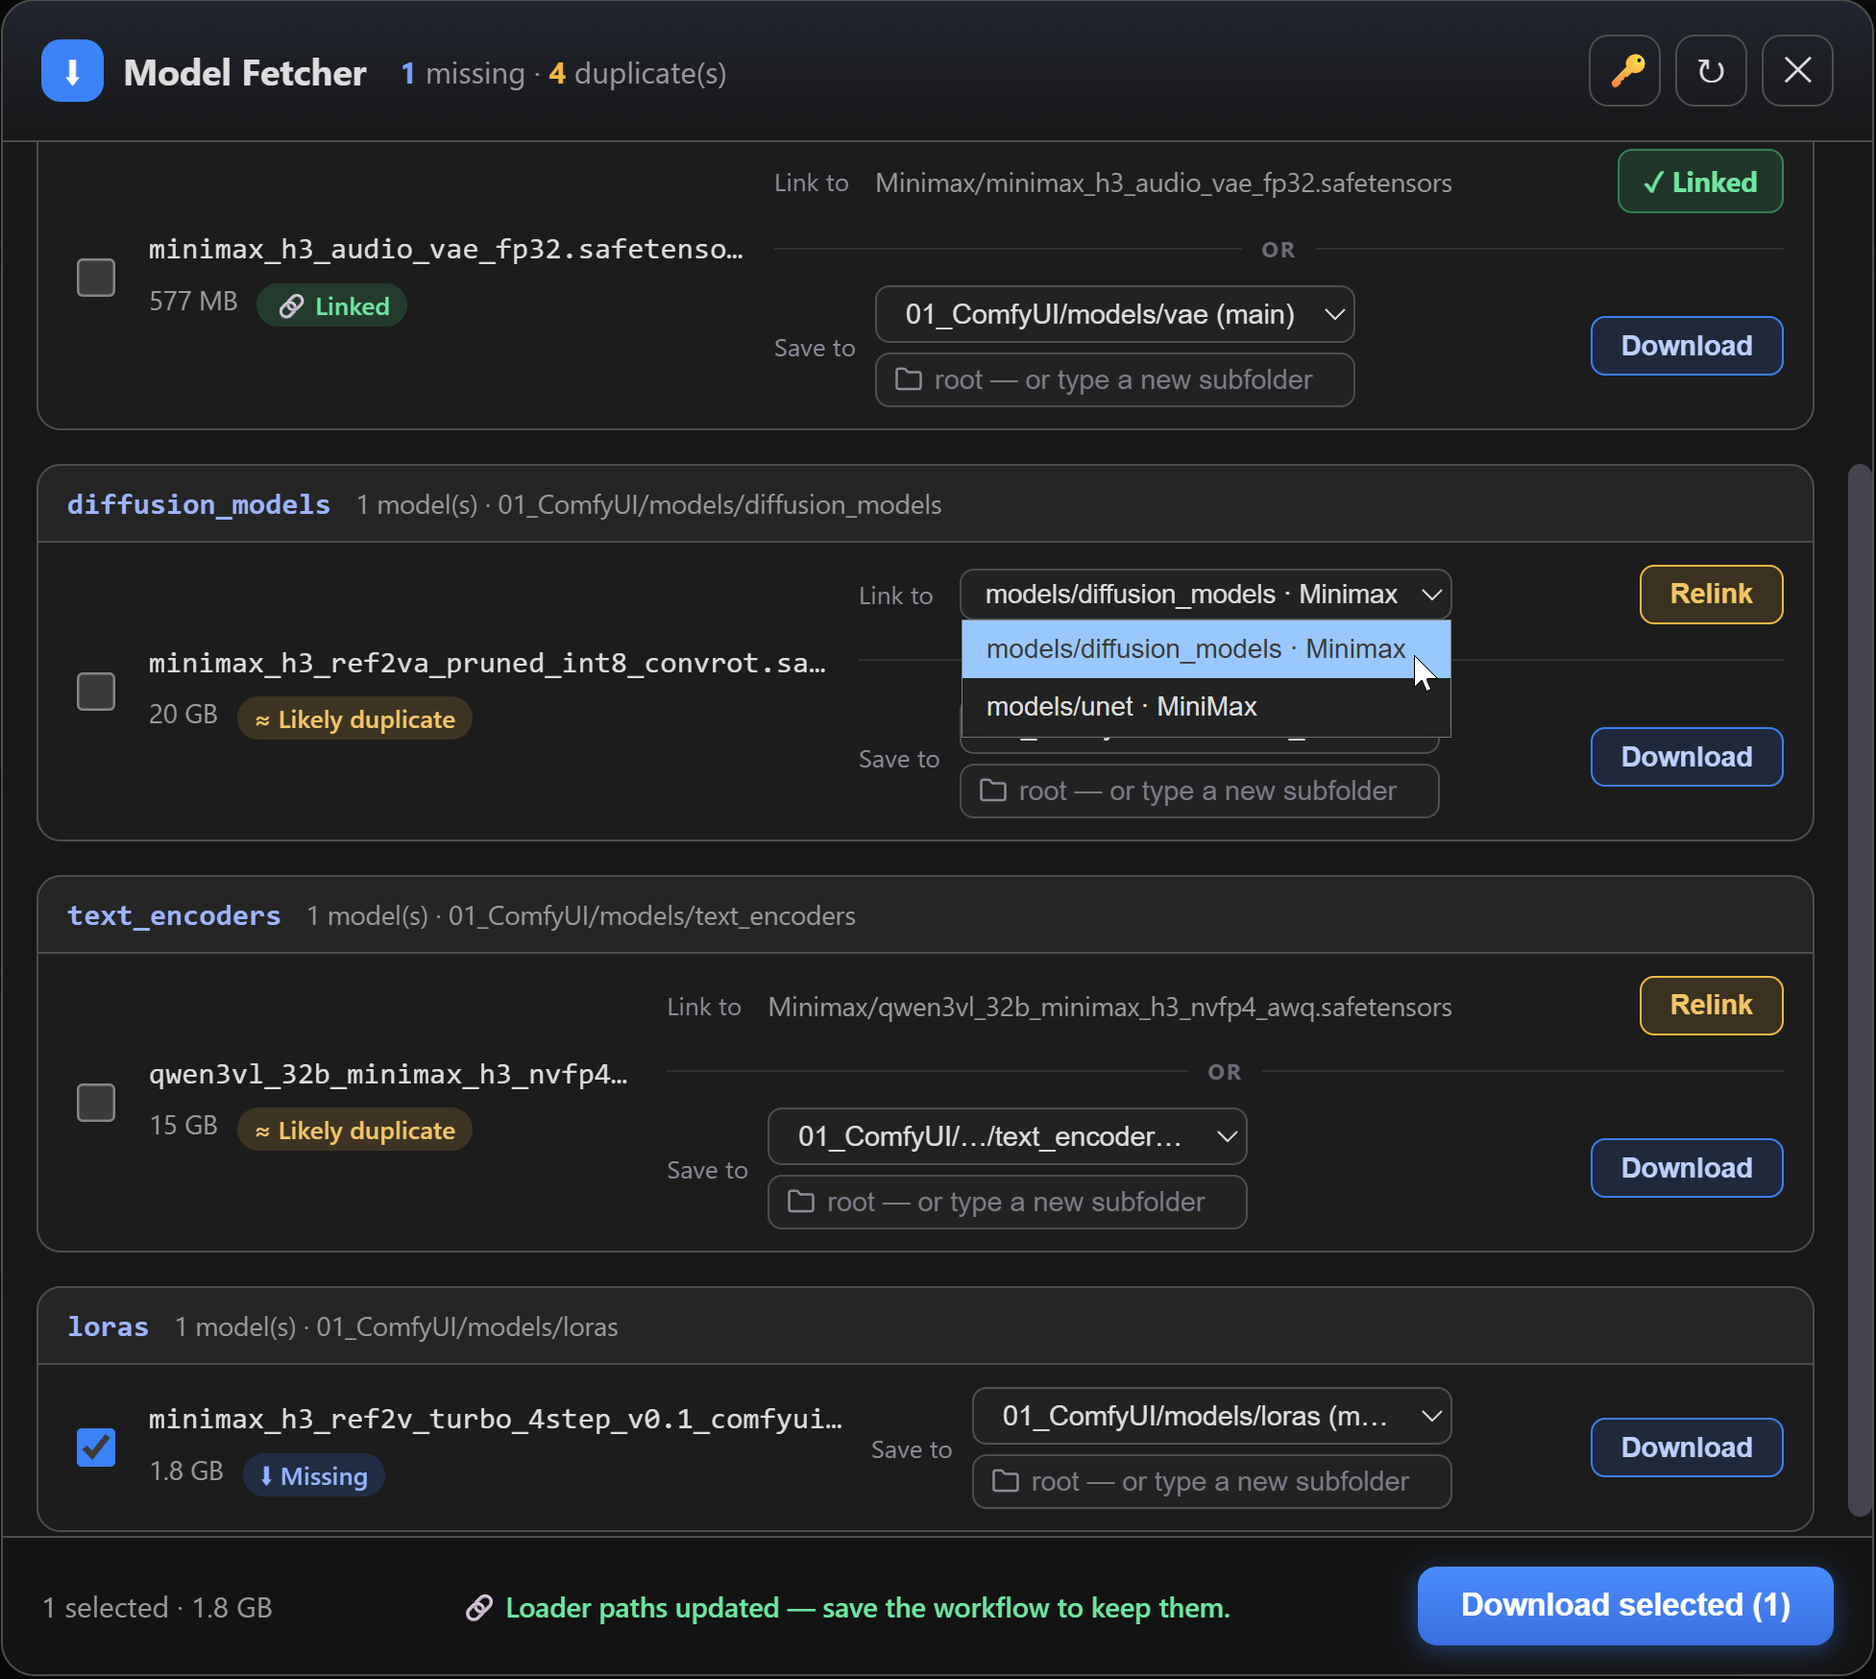
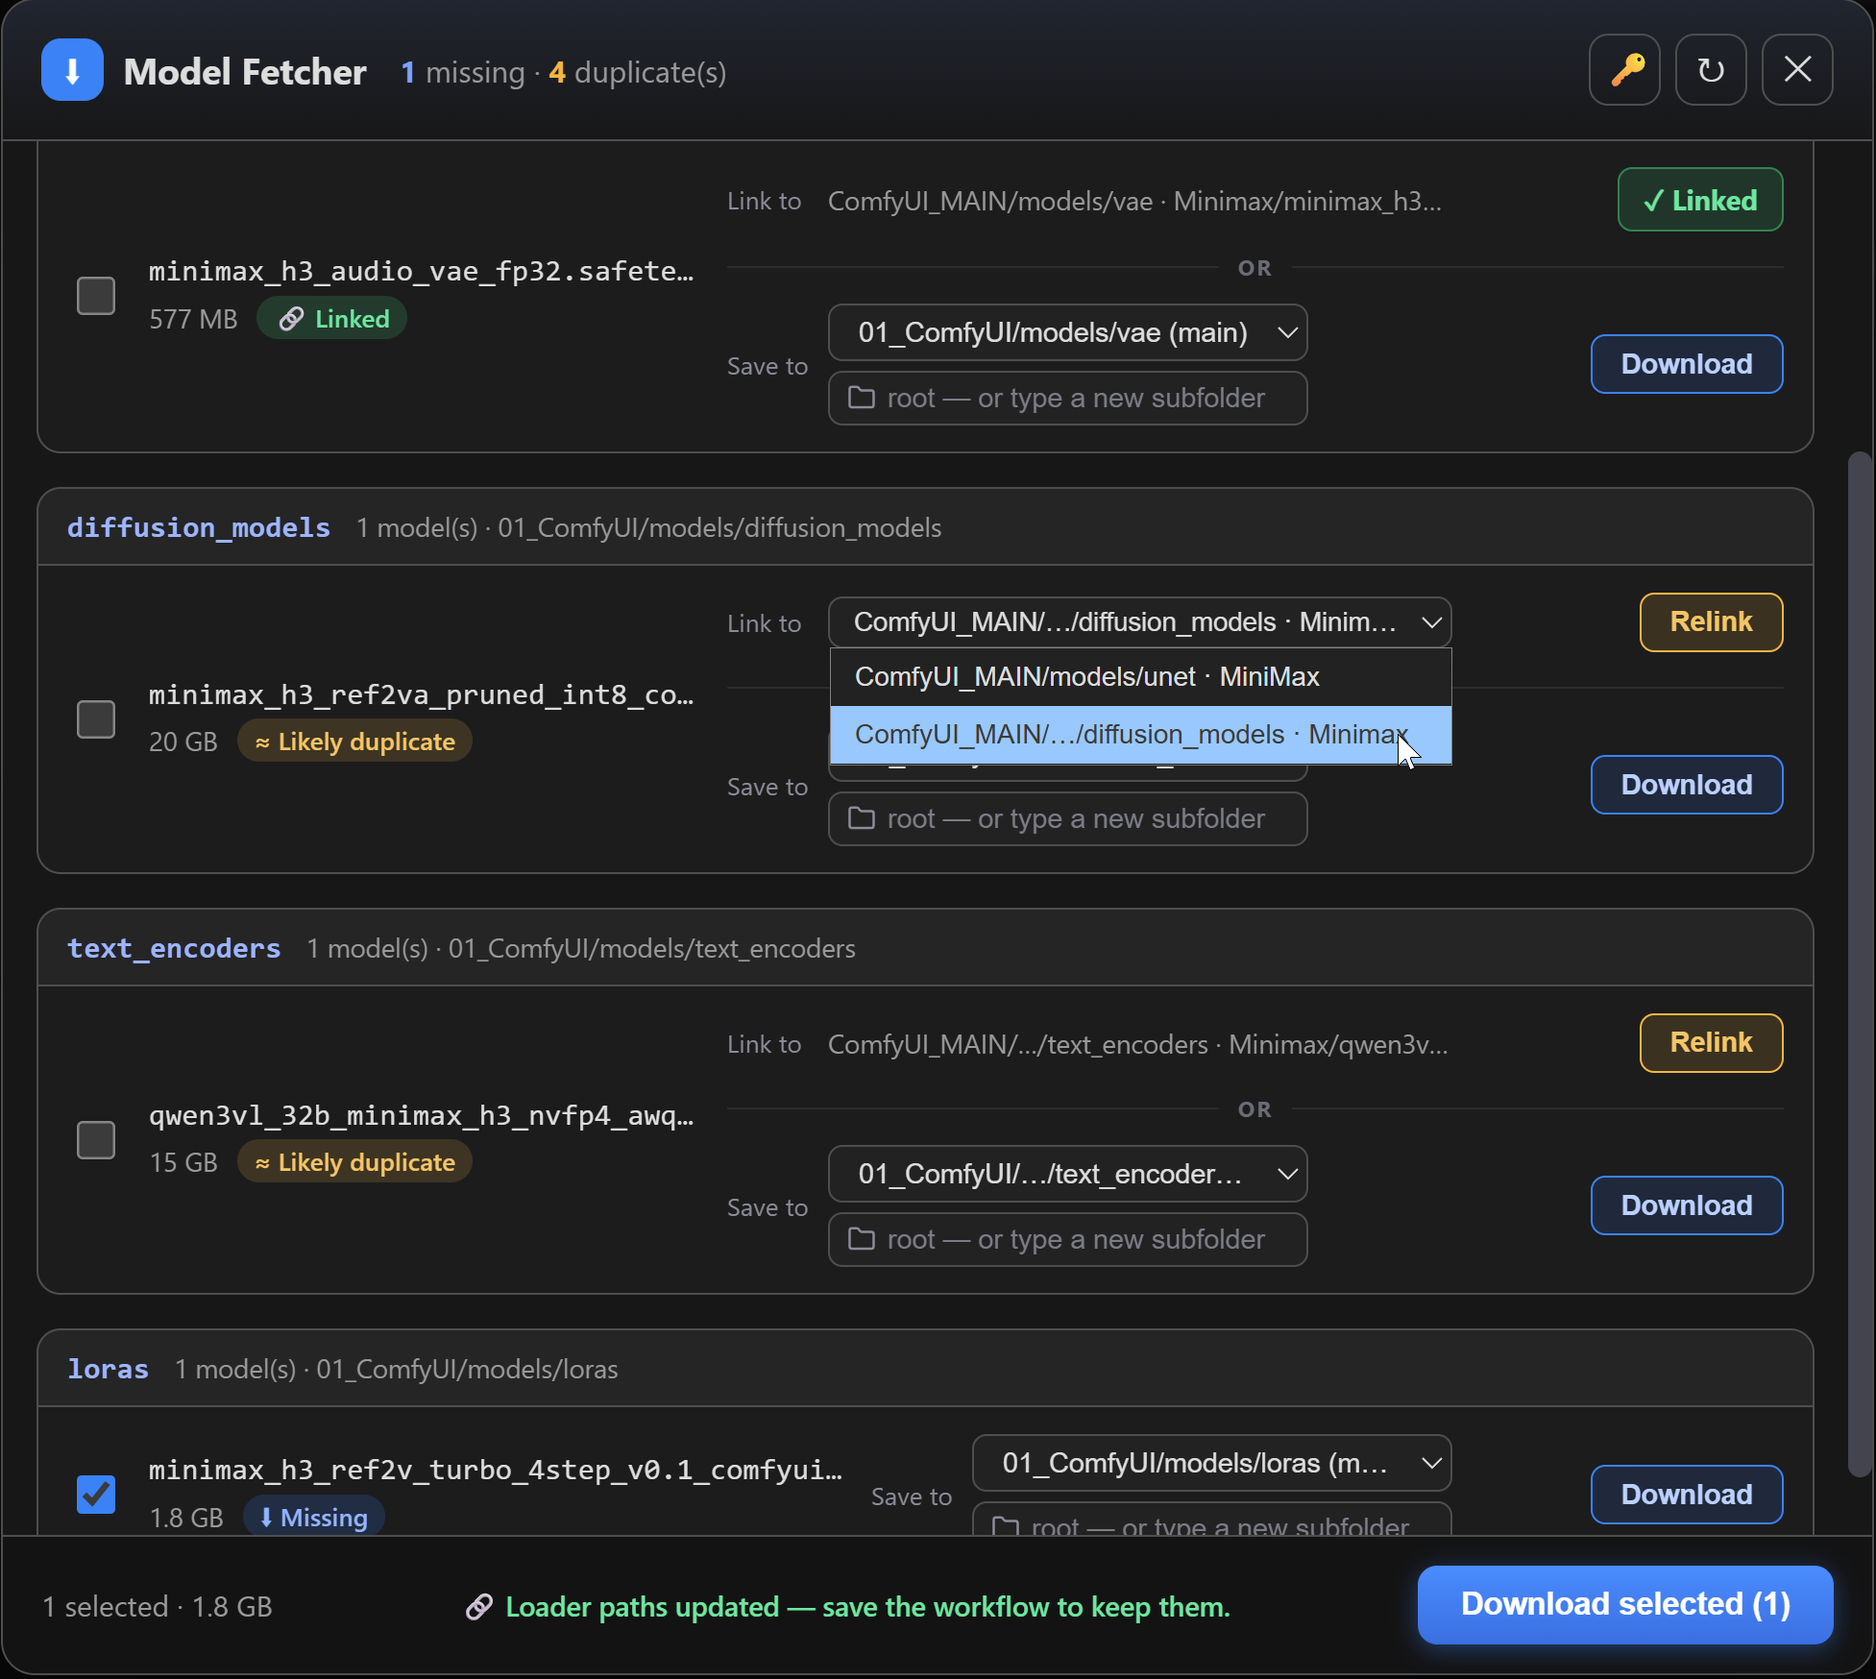
Name the install every copy in the Link to menu lives in
The menu's root labels were computed over the copies' own roots alone. Two
subfolders of one install differ early (models/unet against
models/diffusion_models), so the depth escalation stopped before the
segment naming the install — on a machine with two installs, the menu read
"models/unet · MiniMax" with no way to tell 01_ComfyUI from ComfyUI_MAIN.
Seen on a real install with both registered.

rootLabels() now runs locationLabels over the category's whole location
list, union'd with the copies' roots (a copy can sit under
output/<category>, scanned but never a download location): the same set the
Save to menu labels, so the same folder reads the same in both menus, and
the install's name is dragged in exactly when Save to shows it. The rule is
visibility-based, not spread-based — a single copy's fixed span names its
install too, because one copy is no less ambiguous about WHERE it is than
two. The README screenshot now shows the menu as it renders.

diff --git a/web/popup.js b/web/popup.js
@@ -585,6 +585,25 @@ function buildLinkedBadge(m, count, unverified, pick) {
   return el;
 }
 
+// One label per root, keyed by root — or null when there is only one root in sight (nothing
+// to tell apart) or a copy carries no root (defensive: every entry must stay labellable).
+//
+// The naming set is the UNION of the category's locations and the copies' own roots, not
+// just the latter: two subfolders of one install differ early ("models/unet" against
+// "models/diffusion_models"), which used to stop locationLabels' depth escalation before
+// the segment naming the install — on a machine with two installs, the menu could not say
+// which one a copy lived in. Running over the category's full set drags that segment in
+// exactly when "Save to" shows it. The union (rather than the locations alone) covers a
+// copy under output/<category>: scanned, hence a valid root here, never a download location.
+// Deduplicated, so two copies of one root cannot trip locationLabels' "(1)"/"(2)" net.
+function rootLabels(locationDirs, roots) {
+  if (roots.some((r) => !r)) return null;
+  const naming = [...new Set([...(locationDirs || []), ...roots])];
+  if (naming.length < 2) return null;
+  const labels = locationLabels(naming);
+  return new Map(naming.map((r, i) => [r, labels[i]]));
+}
+
 // Menu of the copies already on disk. Shown only when there is a real choice to make.
 // Without it Relink silently took the first same-size copy, while the destination menu right
 // next to it — which only ever drove downloads — read as though it were the one deciding.
@@ -595,18 +614,13 @@ function buildLinkedBadge(m, count, unverified, pick) {
 // entries 60 characters long, identical but for the case of one folder ("Minimax" vs
 // "MiniMax"), and no way to tell which disk each one sat on.
 //
-// The root is named as soon as the copies span more than one, because the subfolder alone then
-// says nothing about which tree it belongs to. Labelling is shared with the "Save to" menu, so
-// two roots ending the same way stay distinguishable.
-export function copyLabels(cands) {
-  const roots = [...new Set(cands.map((c) => c.root))];
-  // locationLabels() needs distinct paths: mapping through the unique roots also keeps two
-  // copies of the same root from being labelled "(1)" and "(2)" by its fallback.
-  let named = null;
-  if (roots.length > 1 && cands.every((c) => c.root)) {
-    const labels = locationLabels(roots);
-    named = new Map(roots.map((r, i) => [r, labels[i]]));
-  }
+// The root is named as soon as the category registers more than one location — exactly when
+// the "Save to" menu exists — even if every copy sits on the same root: the whole point is
+// to say WHICH install a copy lives in, and that question exists as soon as there are two.
+// Labelling runs over the same set as the "Save to" menu (see rootLabels), so the same
+// folder reads the same in both menus.
+export function copyLabels(cands, locationDirs = null) {
+  const named = rootLabels(locationDirs, cands.map((c) => c.root));
   const distinct = (arr) => new Set(arr).size === arr.length;
   const compose = (folderOf) => cands.map((c) => {
     const cut = c.value.lastIndexOf("/");
@@ -647,12 +661,16 @@ function elideFolder(folder) {
 
 function buildCopyControl(m, pick) {
   const cands = relinkCandidates(m);
+  const locationDirs = state.categories[m.category]?.locations?.map((l) => l.dir) || [];
   // A single copy is not a choice: showing the path plainly says more than a one-entry menu,
-  // and it was until now only reachable through the button's tooltip.
+  // and it was until now only reachable through the button's tooltip. The root is still
+  // named under the same rule as the menu's entries: one copy is no less ambiguous about
+  // WHICH install it sits in than two.
   if (cands.length < 2) {
     const fixed = document.createElement("span");
     fixed.className = "cf-mf-copyfixed";
-    fixed.textContent = pick.value;
+    const named = rootLabels(locationDirs, [pick.root]);
+    fixed.textContent = named ? `${named.get(pick.root)} · ${pick.value}` : pick.value;
     fixed.title = pick.path;
     return fixed;
   }
@@ -660,7 +678,7 @@ function buildCopyControl(m, pick) {
   const sel = document.createElement("select");
   sel.className = "cf-mf-copysel";
   sel.title = "Which copy already on disk the loader node(s) should point at.";
-  const labels = copyLabels(cands);
+  const labels = copyLabels(cands, locationDirs);
   // Keyed by index rather than by path: shorter, and nothing here depends on the value.
   cands.forEach((c, i) => {
     const opt = new Option(labels[i], String(i));

diff --git a/tests/e2e/test_popup.py b/tests/e2e/test_popup.py
@@ -364,6 +364,58 @@ with sync_playwright() as pw:
     check("the copy chosen on the other disk is the one written",
           page.evaluate("() => window.app.graph._nodes[0].widgets[0].value") == "MiniMax/" + NAME)
 
+    # ---- 11b. Copies whose roots differ in tail, on a machine with two installs ----
+    # The screenshot case: both copies under 01_ComfyUI, whose two dirs differ at depth 2 —
+    # so labelled over the copies' roots alone, nothing said WHICH install they live in while
+    # the category also registers ComfyUI_MAIN's dirs. The labels must dig as deep as the
+    # "Save to" menu does, and the single-copy span plays by the same rule.
+    ONE = "single_copy_model.safetensors"
+    INSTALLS = copy.deepcopy(ANALYZE)
+    LOCS = [{"dir": d, "exists": True, "is_default": d.endswith("unet") and "01_" in d,
+             "subfolders": [""]}
+            for d in ["/opt/01_ComfyUI/models/unet", "/opt/01_ComfyUI/models/diffusion_models",
+                      "/opt/ComfyUI_MAIN/models/unet",
+                      "/opt/ComfyUI_MAIN/models/diffusion_models"]]
+    INSTALLS["categories"] = {"diffusion_models": {
+        "target_dir": "/opt/01_ComfyUI/models/unet", "known": True, "subfolders": [""],
+        "all_dirs": [l["dir"] for l in LOCS], "locations": LOCS}}
+    INSTALLS["models"] = [
+        {**INSTALLS["models"][0], "id": "diffusion_models/" + NAME, "filename": NAME,
+         "category": "diffusion_models", "remote_size": 20,
+         "local_matches": [
+            {"path": f"/opt/01_ComfyUI/models/unet/MiniMax/{NAME}", "size": 20,
+             "same_size": True, "value": f"MiniMax/{NAME}",
+             "root": "/opt/01_ComfyUI/models/unet"},
+            {"path": f"/opt/01_ComfyUI/models/diffusion_models/Minimax/{NAME}", "size": 20,
+             "same_size": True, "value": f"Minimax/{NAME}",
+             "root": "/opt/01_ComfyUI/models/diffusion_models"}],
+         "relink": {"value": f"MiniMax/{NAME}",
+                    "path": f"/opt/01_ComfyUI/models/unet/MiniMax/{NAME}",
+                    "root": "/opt/01_ComfyUI/models/unet"}},
+        {**INSTALLS["models"][0], "id": "diffusion_models/" + ONE, "filename": ONE,
+         "category": "diffusion_models", "remote_size": 30,
+         "local_matches": [
+            {"path": f"/opt/ComfyUI_MAIN/models/unet/sub/{ONE}", "size": 30,
+             "same_size": True, "value": f"sub/{ONE}",
+             "root": "/opt/ComfyUI_MAIN/models/unet"}],
+         "relink": {"value": f"sub/{ONE}", "path": f"/opt/ComfyUI_MAIN/models/unet/sub/{ONE}",
+                    "root": "/opt/ComfyUI_MAIN/models/unet"}}]
+    page.evaluate("(p) => { window.api.payload = p; }", INSTALLS)
+    page.evaluate("() => { window.app.extensionManager.workflow.activeWorkflow.key = 'workflow-I.json'; }")
+    page.evaluate("() => { window.app.graph = { _nodes: [], setDirtyCanvas() {} }; }")
+    page.evaluate("() => window.popup.openPopup()")
+    page.wait_for_selector(".cf-mf-row")
+
+    opts = row(page, "diffusion_models/" + NAME).locator(".cf-mf-copysel option").all_inner_texts()
+    check("tail-differing roots: each entry still names its install",
+          all("01_ComfyUI" in o for o in opts) and len(set(opts)) == 2, opts)
+    check("the menu labels match the Save to menu's spellings",
+          any(o.startswith("01_ComfyUI/models/unet · ") for o in opts), opts)
+    fixed = row(page, "diffusion_models/" + ONE).locator(".cf-mf-copyfixed").inner_text()
+    check("a single copy names its install under the same rule",
+          fixed.startswith("ComfyUI_MAIN/models/unet · ") and fixed.endswith(f"sub/{ONE}"),
+          fixed)
+
     # ---- 12. The relink line has a life of its own -------------------------
     # It now sits beside the download line instead of sharing its slot, so it must not inherit
     # the download's state machine — nor be erased by it.

diff --git a/tests/e2e/test_location_labels.py b/tests/e2e/test_location_labels.py
@@ -65,10 +65,11 @@ with sync_playwright() as pw:
     # Same requirement, other menu: every entry repeats the row's filename, so what has to be
     # readable is WHERE each copy lives — which tree, which subfolder.
     NAME = "minimax_h3_ref2va_pruned_int8_convrot.safetensors"
-    def copies(pg, rows):
-        return pg.evaluate("(c) => window.popup.copyLabels(c)",
-                           [{"root": r, "value": v, "path": r + "/" + v,
-                             "size": 1, "same_size": True} for r, v in rows])
+    def copies(pg, rows, dirs=None):
+        return pg.evaluate("(c) => window.popup.copyLabels(c.cands, c.dirs)",
+                           {"cands": [{"root": r, "value": v, "path": r + "/" + v,
+                                       "size": 1, "same_size": True} for r, v in rows],
+                            "dirs": dirs})
 
     out = copies(pg, [("/o/models/unet", "Flux/x.safetensors"),
                       ("/o/models/unet", "Archive/x.safetensors")])
@@ -89,6 +90,31 @@ with sync_playwright() as pw:
     ck("two disks: the differing segment is shown",
        "01_ComfyUI" in out[0] and "01_ComfyUI" not in out[1], out)
     print("        two disks:", out)
+
+    # The category's OTHER locations count too: the two roots below differ at depth 2, so on
+    # their own the labels stop at "models/unet"/"models/diffusion_models" — mute about which
+    # of the two INSTALLS the copies live in. With the category's full location list (the same
+    # set the "Save to" menu labels), the escalation digs until the install's name shows.
+    installs = ["/opt/01_ComfyUI/models/unet", "/opt/01_ComfyUI/models/diffusion_models",
+                "/opt/ComfyUI_MAIN/models/unet", "/opt/ComfyUI_MAIN/models/diffusion_models"]
+    out = copies(pg, [("/opt/01_ComfyUI/models/unet", f"MiniMax/{NAME}"),
+                      ("/opt/01_ComfyUI/models/diffusion_models", f"Minimax/{NAME}")],
+                 installs)
+    ck("two installs: each entry names its install",
+       all("01_ComfyUI" in o for o in out) and len(set(out)) == 2, out)
+    print("        two installs:", out)
+
+    # Copies all under ONE root, but the category spans two installs: the install is still
+    # named — one root is no less ambiguous about WHERE it is than two.
+    out = copies(pg, [("/opt/01_ComfyUI/models/unet", "Flux/x.st"),
+                      ("/opt/01_ComfyUI/models/unet", "Archive/x.st")], installs)
+    ck("one root, several installs: the install is still named",
+       all(o.startswith("01_ComfyUI/models/unet · ") for o in out), out)
+
+    # Single-location category: the subfolder alone still suffices (no prefix noise).
+    out = copies(pg, [("/o/models/unet", "Flux/x.st"), ("/o/models/unet", "Archive/x.st")],
+                 ["/o/models/unet"])
+    ck("single location: no prefix", out == ["Flux", "Archive"], out)
 
     # Two copies sharing a root, a third elsewhere: the shared root must not be labelled
     # "(1)" and "(2)" by the uniqueness fallback.

diff --git a/README.md b/README.md
@@ -72,15 +72,17 @@ relative path under two roots count once, since ComfyUI would load the same file
 With a single copy, **Link to** simply shows its path.
 
 Each entry says **where** the copy lives rather than repeating the filename: the subfolder, and
-the root as soon as the copies span more than one — `models/unet · Minimax` next to
-`models/diffusion_models · MiniMax`. Two roots ending the same way are dug into until they read
-differently, and the full path stays one hover away.
+the root as soon as the category registers more than one location — `01_ComfyUI/models/unet ·
+Minimax` next to `01_ComfyUI/…/diffusion_models · MiniMax`. Roots are labelled over the same
+set as the **Save to** menu, so the same folder reads the same in both menus — on a machine
+with two installs, every entry says which one it lives in, even when the copies' own roots
+would already differ. The full path stays one hover away.
 
-![The Link to menu open on a likely duplicate: the same file exists twice, once under
-models/diffusion_models and once under models/unet, and each entry is named by its root and its
-subfolder. Above it, a row already relinked shows a green Linked pill; below, a missing model
-has no Link to line at all — only Save to and Download. The footer reminds you to save the
-workflow](docs/ui-relink.png)
+![The Link to menu open on a likely duplicate: the same file exists twice under the
+ComfyUI_MAIN install, once in models/unet and once in models/diffusion_models, and each entry
+names its install, its root and its subfolder. Above it, a row already relinked shows a green
+Linked pill; below, a missing model has no Link to line at all — only Save to and Download.
+The footer reminds you to save the workflow](docs/ui-relink.png)
 
 ### Downloads
 - Sequential queue with a single worker, **live progress** (bytes, total, speed) pushed over

diff --git a/AGENTS.md b/AGENTS.md
@@ -162,3 +162,10 @@ run time — there is no duplicated copy to keep in sync.
   (`models/clip`), and a fixed slice renders them identically. It grows the label to the
   smallest depth that is unique, then elides the middle — and falls back to the full label if
   eliding would make two entries look alike again.
+- The "Link to" menu labels its roots over the category's **whole** location list (union'd
+  with the copies' own roots — a copy can sit under `output/<category>`), not just the roots
+  the copies happen to sit on: two subfolders of one install differ early (`models/unet`
+  against `models/diffusion_models`), which stopped the depth escalation before the segment
+  naming the install — on a machine with two installs, the menu could not say which one a
+  copy lived in. Same set as the "Save to" menu ⇒ the same folder reads the same in both.
+  `rootLabels()` in `popup.js` is where that set is built.
